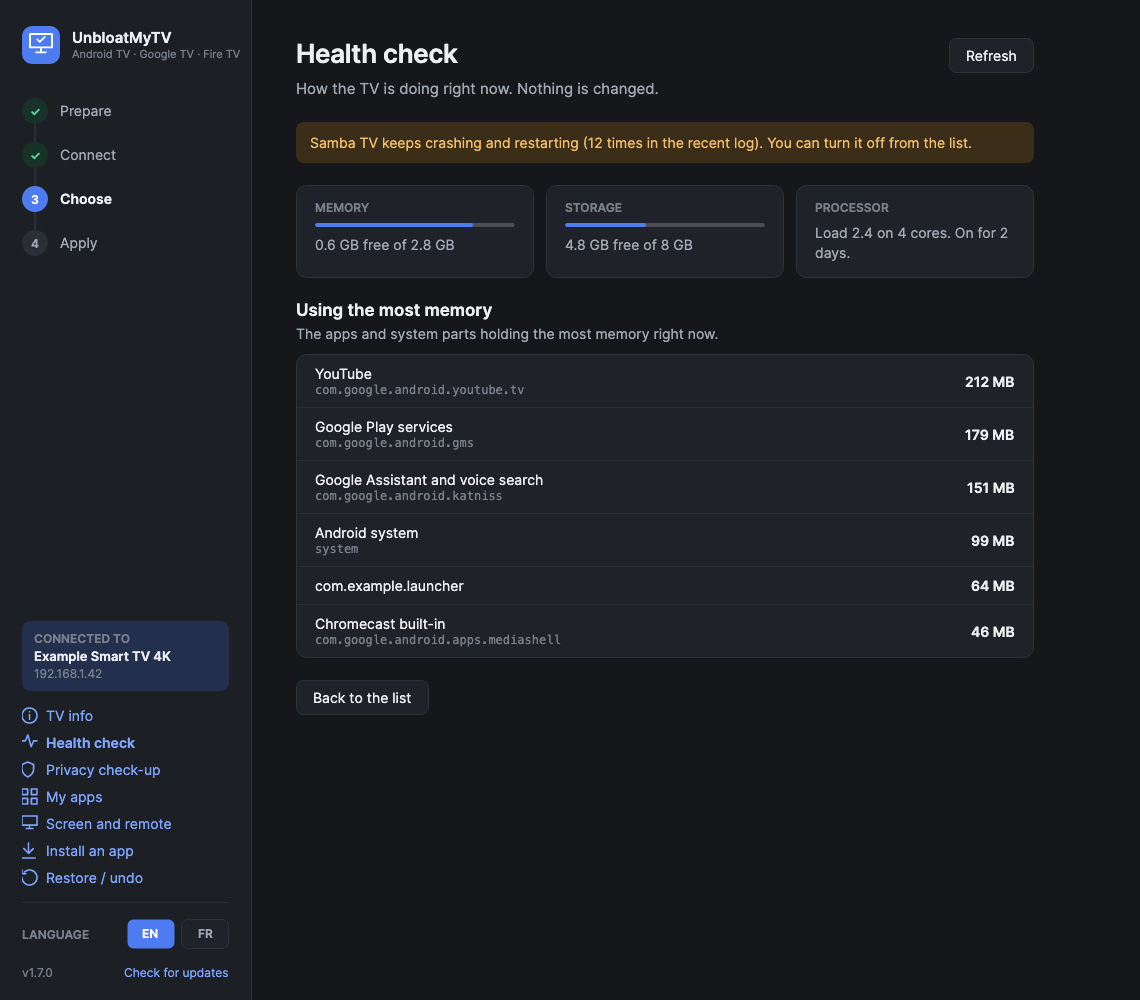
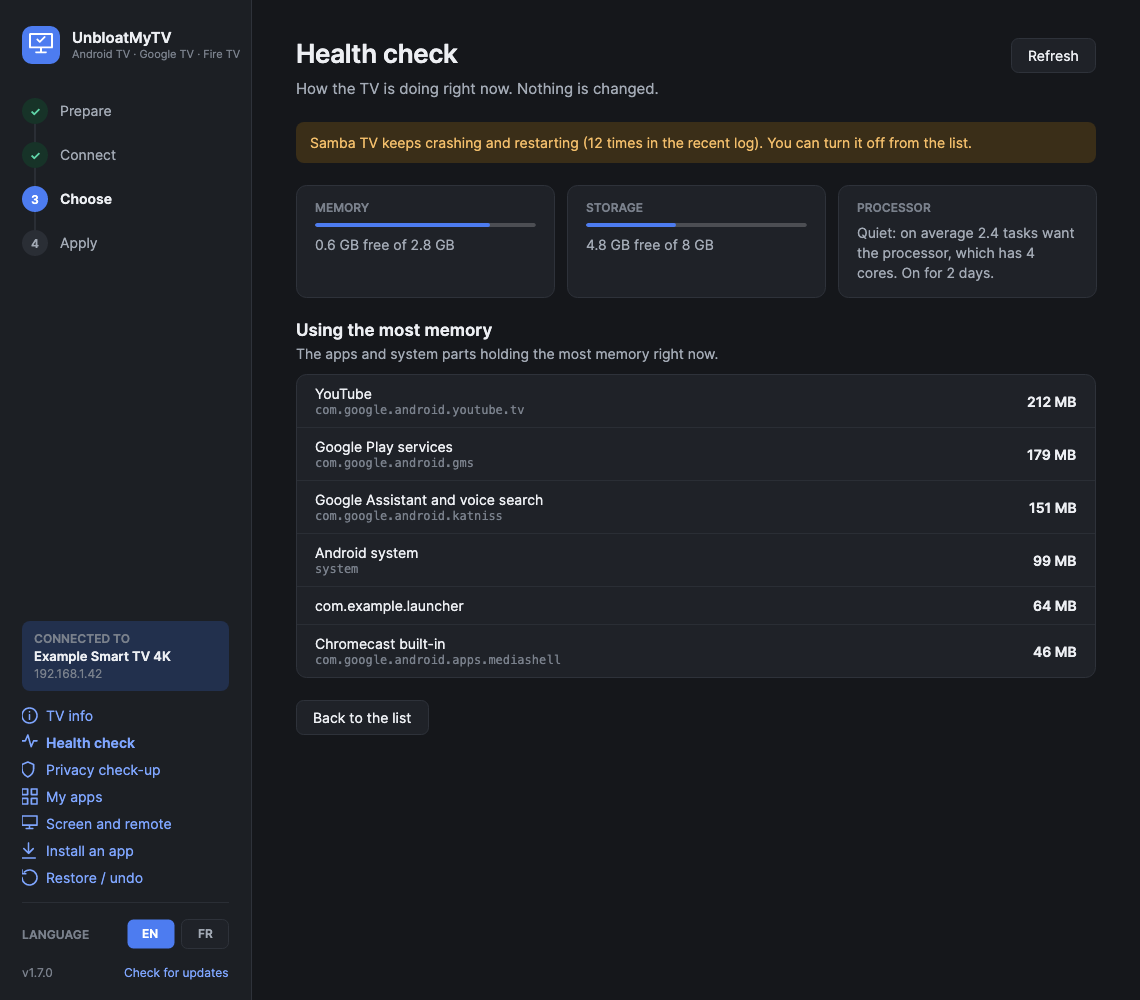
Version 1.7.1: settings already in place are marked, processor load explained
- Choose reads the TV's current settings: ones already set (Wi-Fi off, DNS, location,
  animations…) show "Already set", start unticked and show the option in use
- Health check says what the load average means: tasks wanting the processor compared with
  its cores, with Quiet, Busy or Overloaded

diff --git a/mac/Sources/AndroidTVDebloater/Models/Tweak.swift b/mac/Sources/AndroidTVDebloater/Models/Tweak.swift
@@ -52,6 +52,10 @@ final class Tweak: Identifiable {
 
     var isSelected = false
     var selectedOption: String?
+    /// The TV is already set this way: shown with a check mark and not ticked.
+    var isDone = false
+    /// False for a plain choice between options, such as the screensaver.
+    var canBeDone = true
 
     init(id: String, groupId: String, recommended: Bool, title: LocText, description: LocText,
          warning: LocText? = nil, options: [TweakOption] = [], kind: Kind) {
@@ -98,6 +102,42 @@ final class Tweak: Identifiable {
         case .wifiOff: return "svc wifi disable"
         case .trimCaches: return "pm trim-caches"
         case .optimizeApps: return "cmd package bg-dexopt-job"
+        }
+    }
+
+    /// Whether the TV is already set the way this choice would set it, and if so with which option.
+    /// Reading changes nothing. Choices that run something (clear caches…) are never done.
+    func readDone(_ adb: Adb, _ dev: TvDevice) async -> (done: Bool, option: String?) {
+        let values = options.map(\.value)
+        switch kind {
+        case .settings(let writes) where canBeDone:
+            // Every setting already has the value of one same option (any option counts).
+            var current: [String: String?] = [:]
+            for w in writes { current[w.namespace + "/" + w.key] = await SettingsIO.get(adb, dev.serial, w.namespace, w.key) }
+            func matches(_ option: String) -> Bool {
+                writes.allSatisfy { current[$0.namespace + "/" + $0.key] == .some($0.value.replacingOccurrences(of: "{option}", with: option)) }
+            }
+            if values.isEmpty { return (matches(""), nil) }
+            let match = values.first(where: matches)
+            return (match != nil, match)
+        case .backgroundLimit:
+            let v = dev.sdk >= 29
+                ? await SettingsIO.get(adb, dev.serial, "device_config:activity_manager", "max_cached_processes")
+                : (await SettingsIO.get(adb, dev.serial, "global", "activity_manager_constants"))?
+                    .split(separator: ",").first { $0.hasPrefix("max_cached_processes=") }
+                    .map { String($0.dropFirst("max_cached_processes=".count)) }
+            let match = values.first { $0 == v }
+            return (match != nil, match)
+        case .wifiOff:
+            return (await SettingsIO.get(adb, dev.serial, "global", "wifi_on") == "0", nil)
+        case .privateDns:
+            // Done when Private DNS already points at one of the offered filtering services.
+            guard await SettingsIO.get(adb, dev.serial, "global", "private_dns_mode") == "hostname" else { return (false, nil) }
+            let host = await SettingsIO.get(adb, dev.serial, "global", "private_dns_specifier")
+            let match = values.first { $0 == host }
+            return (match != nil, match)
+        default:
+            return (false, nil)
         }
     }
 

diff --git a/mac/Sources/AndroidTVDebloater/Models/AppModel.swift b/mac/Sources/AndroidTVDebloater/Models/AppModel.swift
@@ -340,7 +340,19 @@ final class ChooseModel {
         unknownApps = Catalog.unknownSystemApps(device)
         lastChoices = ChoiceSet.loadLast()
         Task { await checkReturned() }
+        Task { await checkDone() }
         if device.isFireTv { Task { await checkFirePrivacy() } }
+    }
+
+    /// Settings the TV already has are shown as done and unticked. Reading changes nothing.
+    private func checkDone() async {
+        for t in allTweaks where !t.isPackage {
+            let (done, option) = await t.readDone(Adb.shared, device)
+            guard done else { continue }
+            if let option { t.selectedOption = option }
+            t.isSelected = false
+            t.isDone = true
+        }
     }
 
     func checkFirePrivacy() async {
@@ -430,7 +442,7 @@ final class ChooseModel {
     }
 
     func selectRecommended() {
-        for t in allTweaks { t.isSelected = t.recommended }
+        for t in allTweaks { t.isSelected = t.recommended && !t.isDone }
         choicesStatus = ""
     }
 

diff --git a/mac/Sources/AndroidTVDebloater/Views/ChooseView.swift b/mac/Sources/AndroidTVDebloater/Views/ChooseView.swift
@@ -197,6 +197,13 @@ struct TweakRow: View {
                                 .padding(.horizontal, 6).padding(.vertical, 1)
                                 .background(.green.opacity(0.15), in: Capsule())
                         }
+                        if tweak.isDone {
+                            Text(L("Choose_DonePill"))
+                                .font(.caption2.weight(.semibold))
+                                .foregroundStyle(.green)
+                                .padding(.horizontal, 6).padding(.vertical, 1)
+                                .background(.green.opacity(0.15), in: Capsule())
+                        }
                     }
                     Text(tweak.description.text).foregroundStyle(.secondary).fixedSize(horizontal: false, vertical: true)
                     if let w = tweak.warning {

diff --git a/mac/Sources/AndroidTVDebloater/Models/ToolsModels.swift b/mac/Sources/AndroidTVDebloater/Models/ToolsModels.swift
@@ -39,7 +39,10 @@ final class HealthModel {
         let h = r.uptimeHours
         let up = h < 0.5 ? L("Health_UnderHour") : h < 1.5 ? L("Health_OneHour")
             : h < 48 ? L("Health_Hours", Int(h.rounded())) : L("Health_Days", Int((h / 24).rounded()))
-        return L("Health_CpuText", ChooseModel.oneDecimal(r.load), r.cores, up)
+        // The load average is how many tasks want the processor at once, not a percentage.
+        let perCore = r.cores > 0 ? r.load / Double(r.cores) : 0
+        let level = perCore <= 0.7 ? "Health_CpuQuiet" : perCore <= 1.0 ? "Health_CpuBusy" : "Health_CpuOverloaded"
+        return L("Health_CpuText", L(level), ChooseModel.oneDecimal(r.load), r.cores, up)
     }
 
     var tips: [HealthTip] {

diff --git a/mac/Sources/AndroidTVDebloater/Models/Catalog.swift b/mac/Sources/AndroidTVDebloater/Models/Catalog.swift
@@ -201,6 +201,7 @@ enum Catalog {
                           description: description, warning: def.warning, options: options, kind: .settings(writes))
             t.selectedOption = recommended ? options[0].value
                 : (options.first { $0.value == dev.screensaverComponent } ?? options[0]).value
+            t.canBeDone = false
             return t
         case "optimizeApps": kind = .optimizeApps
         case "backgroundLimit": kind = .backgroundLimit

diff --git a/src/AndroidTVDebloater/Models/Tweak.cs b/src/AndroidTVDebloater/Models/Tweak.cs
@@ -34,6 +34,8 @@ public abstract partial class Tweak : ObservableObject
 
     [ObservableProperty] private bool _isSelected;
     [ObservableProperty] private TweakOption? _selectedOption;
+    /// <summary>The TV is already set this way: shown with a check mark and not ticked.</summary>
+    [ObservableProperty] private bool _isDone;
 
     public string Title => TitleText.ToString();
     public string Description => DescriptionText.ToString();
@@ -51,6 +53,13 @@ public abstract partial class Tweak : ObservableObject
     public virtual IEnumerable<string> SettingKeys => [];
 
     public abstract Task<TweakResult> ApplyAsync(ApplyContext ctx);
+
+    /// <summary>
+    /// Whether the TV is already set the way this choice would set it, and if so with which option.
+    /// Reading changes nothing. Choices that run something (clear caches…) are never done.
+    /// </summary>
+    public virtual Task<(bool Done, TweakOption? Option)> ReadDoneAsync(AdbService adb, TvDevice dev) =>
+        Task.FromResult<(bool, TweakOption?)>((false, null));
 
     public void RefreshTexts()
     {
@@ -97,8 +106,23 @@ public sealed class SettingsTweak : Tweak
 {
     public required IReadOnlyList<SettingWrite> Writes { get; init; }
 
+    /// <summary>False for a plain choice between options, such as the screensaver.</summary>
+    public bool CanBeDone { get; init; } = true;
+
     public override string Technical => string.Join(" · ", Writes.Select(w => w.Key).Distinct());
     public override IEnumerable<string> SettingKeys => Writes.Select(w => w.Key);
+
+    /// <summary>Done when every setting already has the value of one same option (any option counts).</summary>
+    public override async Task<(bool Done, TweakOption? Option)> ReadDoneAsync(AdbService adb, TvDevice dev)
+    {
+        if (!CanBeDone) return (false, null);
+        var current = new Dictionary<SettingWrite, string?>();
+        foreach (var w in Writes) current[w] = await SettingsIO.GetAsync(adb, dev.Serial, w.Namespace, w.Key);
+        bool Matches(string option) => Writes.All(w => current[w] == w.Value.Replace("{option}", option));
+        if (Options is not { Count: > 0 }) return (Matches(""), null);
+        var match = Options.FirstOrDefault(o => Matches(o.Value));
+        return (match is not null, match);
+    }
 
     public override async Task<TweakResult> ApplyAsync(ApplyContext ctx)
     {
@@ -136,6 +160,16 @@ public sealed class BackgroundLimitTweak : Tweak
             : await SettingsIO.ChangeAsync(ctx, "global", "activity_manager_constants", $"max_cached_processes={value}");
         return new TweakResult(ok);
     }
+
+    public override async Task<(bool Done, TweakOption? Option)> ReadDoneAsync(AdbService adb, TvDevice dev)
+    {
+        var v = dev.Sdk >= 29
+            ? await SettingsIO.GetAsync(adb, dev.Serial, "device_config:activity_manager", "max_cached_processes")
+            : (await SettingsIO.GetAsync(adb, dev.Serial, "global", "activity_manager_constants"))?
+                .Split(',').FirstOrDefault(p => p.StartsWith("max_cached_processes="))?["max_cached_processes=".Length..];
+        var match = Options?.FirstOrDefault(o => o.Value == v);
+        return (match is not null, match);
+    }
 }
 
 /// <summary>Turn the Wi-Fi radio off. Only offered when the TV is on Ethernet.</summary>
@@ -152,6 +186,9 @@ public sealed class WifiOffTweak : Tweak
         await ctx.Adb.ShellAsync(ctx.Serial, "svc wifi disable");
         return new TweakResult(true);
     }
+
+    public override async Task<(bool Done, TweakOption? Option)> ReadDoneAsync(AdbService adb, TvDevice dev) =>
+        (await SettingsIO.GetAsync(adb, dev.Serial, "global", "wifi_on") == "0", null);
 }
 
 /// <summary>
@@ -186,6 +223,15 @@ public sealed class PrivateDnsTweak : Tweak
         ctx.Backup.Settings.RemoveAll(s => s.Key is "private_dns_mode" or "private_dns_specifier");
         ctx.Backup.Save();
         return new TweakResult(false, Loc.Get("Apply_DnsReverted"));
+    }
+
+    /// <summary>Done when Private DNS already points at one of the offered filtering services.</summary>
+    public override async Task<(bool Done, TweakOption? Option)> ReadDoneAsync(AdbService adb, TvDevice dev)
+    {
+        if (await SettingsIO.GetAsync(adb, dev.Serial, "global", "private_dns_mode") != "hostname") return (false, null);
+        var host = await SettingsIO.GetAsync(adb, dev.Serial, "global", "private_dns_specifier");
+        var match = Options?.FirstOrDefault(o => o.Value == host);
+        return (match is not null, match);
     }
 }
 

diff --git a/src/AndroidTVDebloater/Localization/Strings.cs b/src/AndroidTVDebloater/Localization/Strings.cs
@@ -44,7 +44,10 @@ public static class Strings
         ["Health_Cpu"] = "PROCESSOR",
         ["Health_MemoryText"] = "{0} GB free of {1} GB",
         ["Health_StorageText"] = "{0} GB free of {1} GB",
-        ["Health_CpuText"] = "Load {0} on {1} cores. On for {2}.",
+        ["Health_CpuText"] = "{0}: on average {1} tasks want the processor, which has {2} cores. On for {3}.",
+        ["Health_CpuQuiet"] = "Quiet",
+        ["Health_CpuBusy"] = "Busy",
+        ["Health_CpuOverloaded"] = "Overloaded",
         ["Health_Hours"] = "{0} hours",
         ["Health_OneHour"] = "an hour",
         ["Health_UnderHour"] = "less than an hour",
@@ -269,6 +272,7 @@ public static class Strings
         ["Choose_Recommended"] = "Tick recommended",
         ["Choose_None"] = "Untick all",
         ["Choose_RecommendedPill"] = "Recommended",
+        ["Choose_DonePill"] = "✓ Already set",
         ["Choose_ChangeTv"] = "Change TV",
         ["Choose_Android"] = "Android {0}",
         ["Choose_Ram"] = "{0} GB memory",
@@ -410,7 +414,10 @@ public static class Strings
         ["Health_Cpu"] = "PROCESSEUR",
         ["Health_MemoryText"] = "{0} Go libres sur {1} Go",
         ["Health_StorageText"] = "{0} Go libres sur {1} Go",
-        ["Health_CpuText"] = "Charge {0} sur {1} cœurs. Allumé depuis {2}.",
+        ["Health_CpuText"] = "{0} : en moyenne {1} tâches demandent le processeur, qui a {2} cœurs. Allumé depuis {3}.",
+        ["Health_CpuQuiet"] = "Calme",
+        ["Health_CpuBusy"] = "Occupé",
+        ["Health_CpuOverloaded"] = "Surchargé",
         ["Health_Hours"] = "{0} heures",
         ["Health_OneHour"] = "une heure",
         ["Health_UnderHour"] = "moins d'une heure",
@@ -635,6 +642,7 @@ public static class Strings
         ["Choose_Recommended"] = "Cocher les recommandés",
         ["Choose_None"] = "Tout décocher",
         ["Choose_RecommendedPill"] = "Recommandé",
+        ["Choose_DonePill"] = "✓ Déjà réglé",
         ["Choose_ChangeTv"] = "Changer de téléviseur",
         ["Choose_Android"] = "Android {0}",
         ["Choose_Ram"] = "{0} Go de mémoire",

diff --git a/src/AndroidTVDebloater/ViewModels/ChooseViewModel.cs b/src/AndroidTVDebloater/ViewModels/ChooseViewModel.cs
@@ -48,6 +48,7 @@ public sealed partial class ChooseViewModel : PageViewModel
         LastChoices = ChoiceSet.LoadLast();
         foreach (var t in AllTweaks) t.PropertyChanged += OnTweakChanged;
         _ = CheckReturnedAsync();
+        _ = CheckDoneAsync();
         if (device.IsFireTv) _ = CheckFirePrivacyAsync();
     }
 
@@ -64,6 +65,23 @@ public sealed partial class ChooseViewModel : PageViewModel
             }
         }
         catch { /* only a suggestion */ }
+    }
+
+    /// <summary>Settings the TV already has are shown as done and unticked. Reading changes nothing.</summary>
+    private async Task CheckDoneAsync()
+    {
+        foreach (var t in AllTweaks.Where(t => t is not PackageTweak).ToList())
+        {
+            try
+            {
+                var (done, option) = await t.ReadDoneAsync(Main.Adb, Device);
+                if (!done) continue;
+                if (option is not null) t.SelectedOption = option;
+                t.IsSelected = false;
+                t.IsDone = true;
+            }
+            catch { /* only a hint */ }
+        }
     }
 
     private IEnumerable<(Tweak Tweak, SettingChange? Setting)> MatchingTweaks(ReturnedItems r)
@@ -157,7 +175,7 @@ public sealed partial class ChooseViewModel : PageViewModel
     [RelayCommand]
     private void SelectRecommended()
     {
-        foreach (var t in AllTweaks) t.IsSelected = t.Recommended;
+        foreach (var t in AllTweaks) t.IsSelected = t.Recommended && !t.IsDone;
         ChoicesStatus = "";
     }
 

diff --git a/src/AndroidTVDebloater/ViewModels/ToolsViewModels.cs b/src/AndroidTVDebloater/ViewModels/ToolsViewModels.cs
@@ -51,7 +51,15 @@ public sealed partial class HealthViewModel : PageViewModel
     public double StorageUsedPercent => Report is { StorageTotalMb: > 0 } r ? 100.0 * (r.StorageTotalMb - r.StorageFreeMb) / r.StorageTotalMb : 0;
     public string MemoryText => Report is null ? "" : Loc.Format("Health_MemoryText", Gb(Report.MemAvailableMb), Gb(Report.MemTotalMb));
     public string StorageText => Report is null ? "" : Loc.Format("Health_StorageText", Gb(Report.StorageFreeMb), Gb(Report.StorageTotalMb));
-    public string CpuText => Report is null ? "" : Loc.Format("Health_CpuText", Report.Load.ToString("0.#", Loc.Culture), Report.Cores, Uptime(Report.UptimeHours));
+    /// <summary>
+    /// The load average is how many tasks want the processor at once, not a percentage: compared with
+    /// the number of cores, above one per core means tasks are waiting.
+    /// </summary>
+    public string CpuText => Report is not { } r ? "" : Loc.Format("Health_CpuText",
+        Loc.Get(CpuLevel(r.Load, r.Cores)), r.Load.ToString("0.#", Loc.Culture), r.Cores, Uptime(r.UptimeHours));
+
+    public static string CpuLevel(double load, int cores) =>
+        cores <= 0 || load / cores <= 0.7 ? "Health_CpuQuiet" : load / cores <= 1.0 ? "Health_CpuBusy" : "Health_CpuOverloaded";
 
     private static string Uptime(double hours) => hours switch
     {

diff --git a/tools/Screenshots/Program.cs b/tools/Screenshots/Program.cs
@@ -21,7 +21,11 @@ if (args.Length >= 3 && args[1] == "--live")
     Console.WriteLine($"{dev.DisplayName}, Android {dev.AndroidVersion}, storage {dev.StorageFreeMb}/{dev.StorageTotalMb} MB, catalog v{Catalog.Version}");
     foreach (var g in Catalog.Build(dev))
         foreach (var t in g.Tweaks)
-            Console.WriteLine($"  [{(t.IsSelected ? "x" : " ")}] {g.Id,-12} {t.Id,-50} {t.Description[..Math.Min(70, t.Description.Length)]}");
+        {
+            var (done, option) = await t.ReadDoneAsync(adb, dev);
+            var mark = done ? "✓" : t.IsSelected ? "x" : " ";
+            Console.WriteLine($"  [{mark}] {g.Id,-12} {t.Id,-50} {(done && option is not null ? "set: " + option.Value : t.Description[..Math.Min(70, t.Description.Length)])}");
+        }
     if (dev.IsFireTv) Console.WriteLine($"{dev.FireOsVersion}; tracking on: [{string.Join(", ", await FirePrivacy.ReadOnAsync(adb, args[2]))}]");
     var unknown = Catalog.UnknownSystemApps(dev);
     Console.WriteLine($"unknown: {unknown.Count}: {string.Join(", ", unknown)}");

diff --git a/src/AndroidTVDebloater/Models/Catalog.cs b/src/AndroidTVDebloater/Models/Catalog.cs
@@ -303,6 +303,7 @@ public static class Catalog
                 DescriptionText = description, WarningText = warning, Options = options,
                 SelectedOption = recommended ? options[0]
                     : options.FirstOrDefault(o => o.Value == dev.ScreensaverComponent) ?? options[0],
+                CanBeDone = false,
                 Writes = def.Writes.Select(w => new SettingWrite(w.Namespace, w.Key, w.Value)).ToList(),
             },
             "optimizeApps" => new OptimizeAppsTweak
